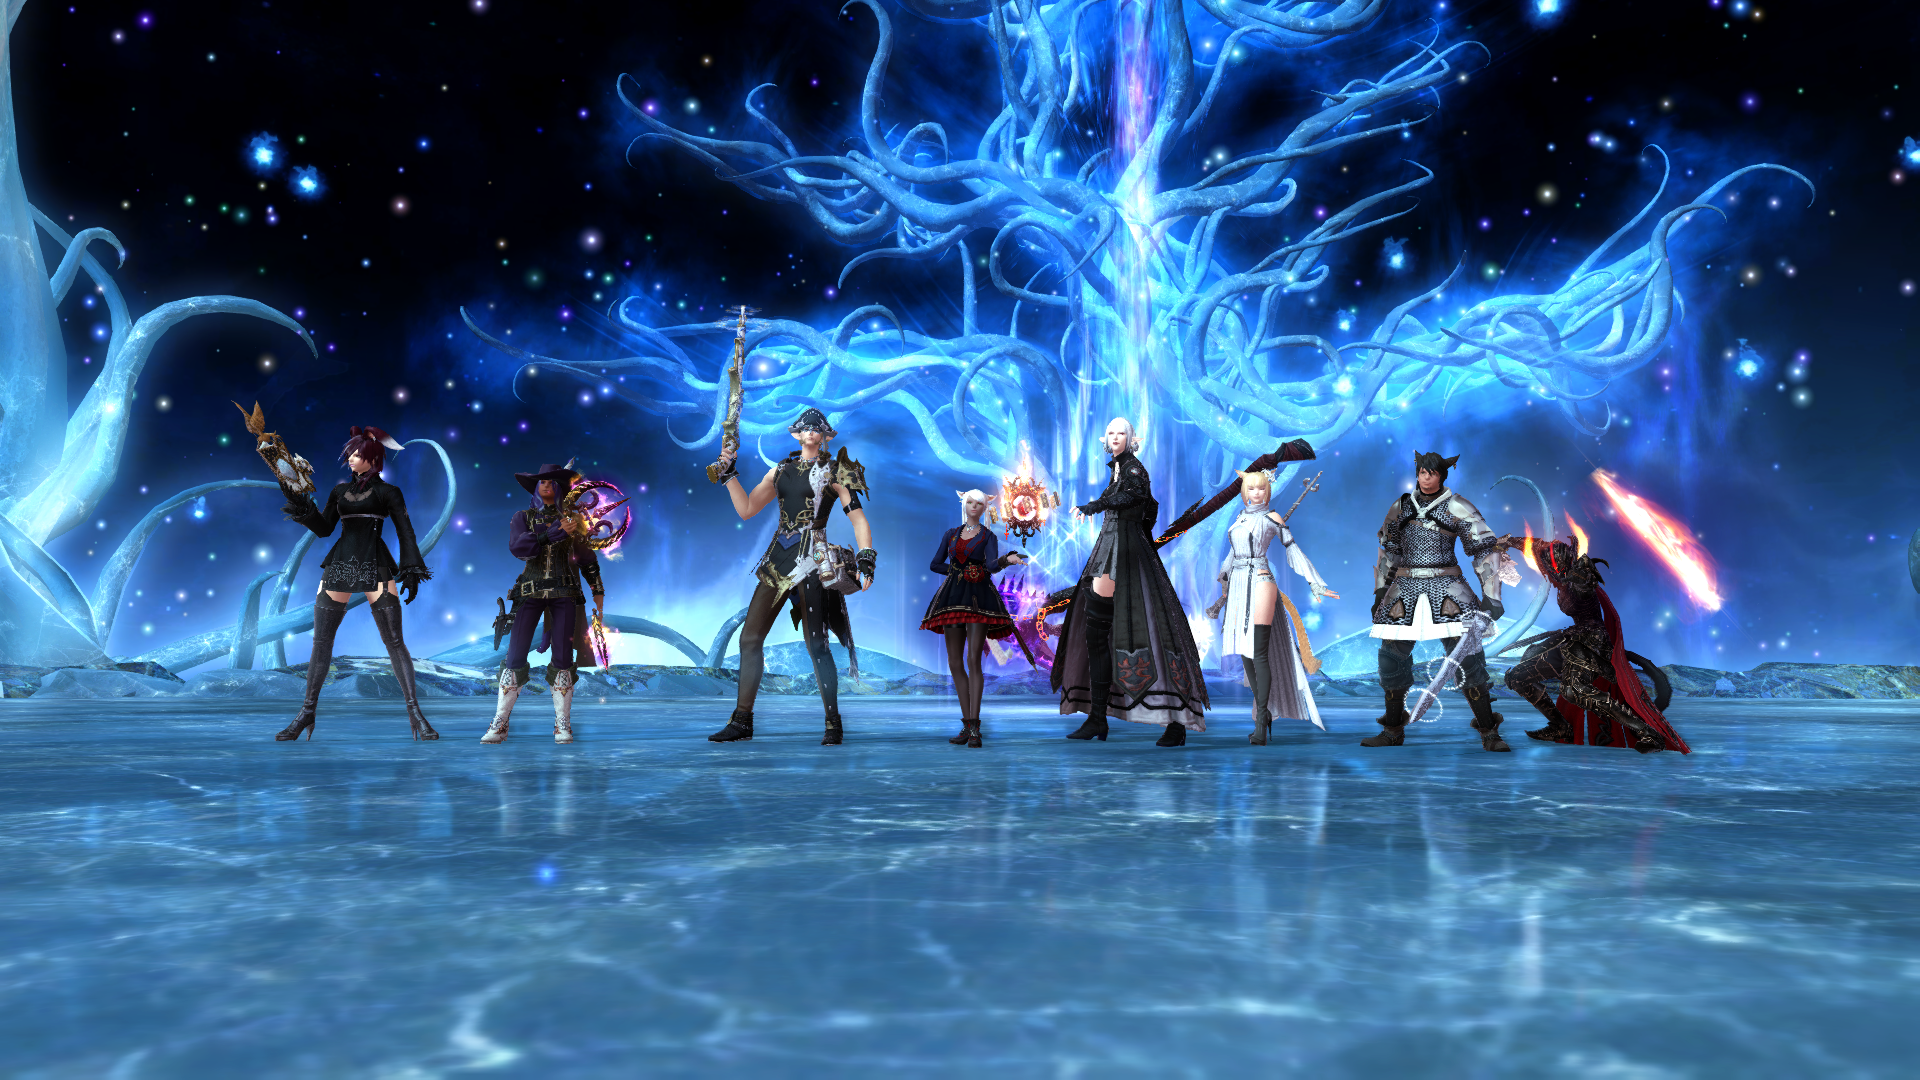
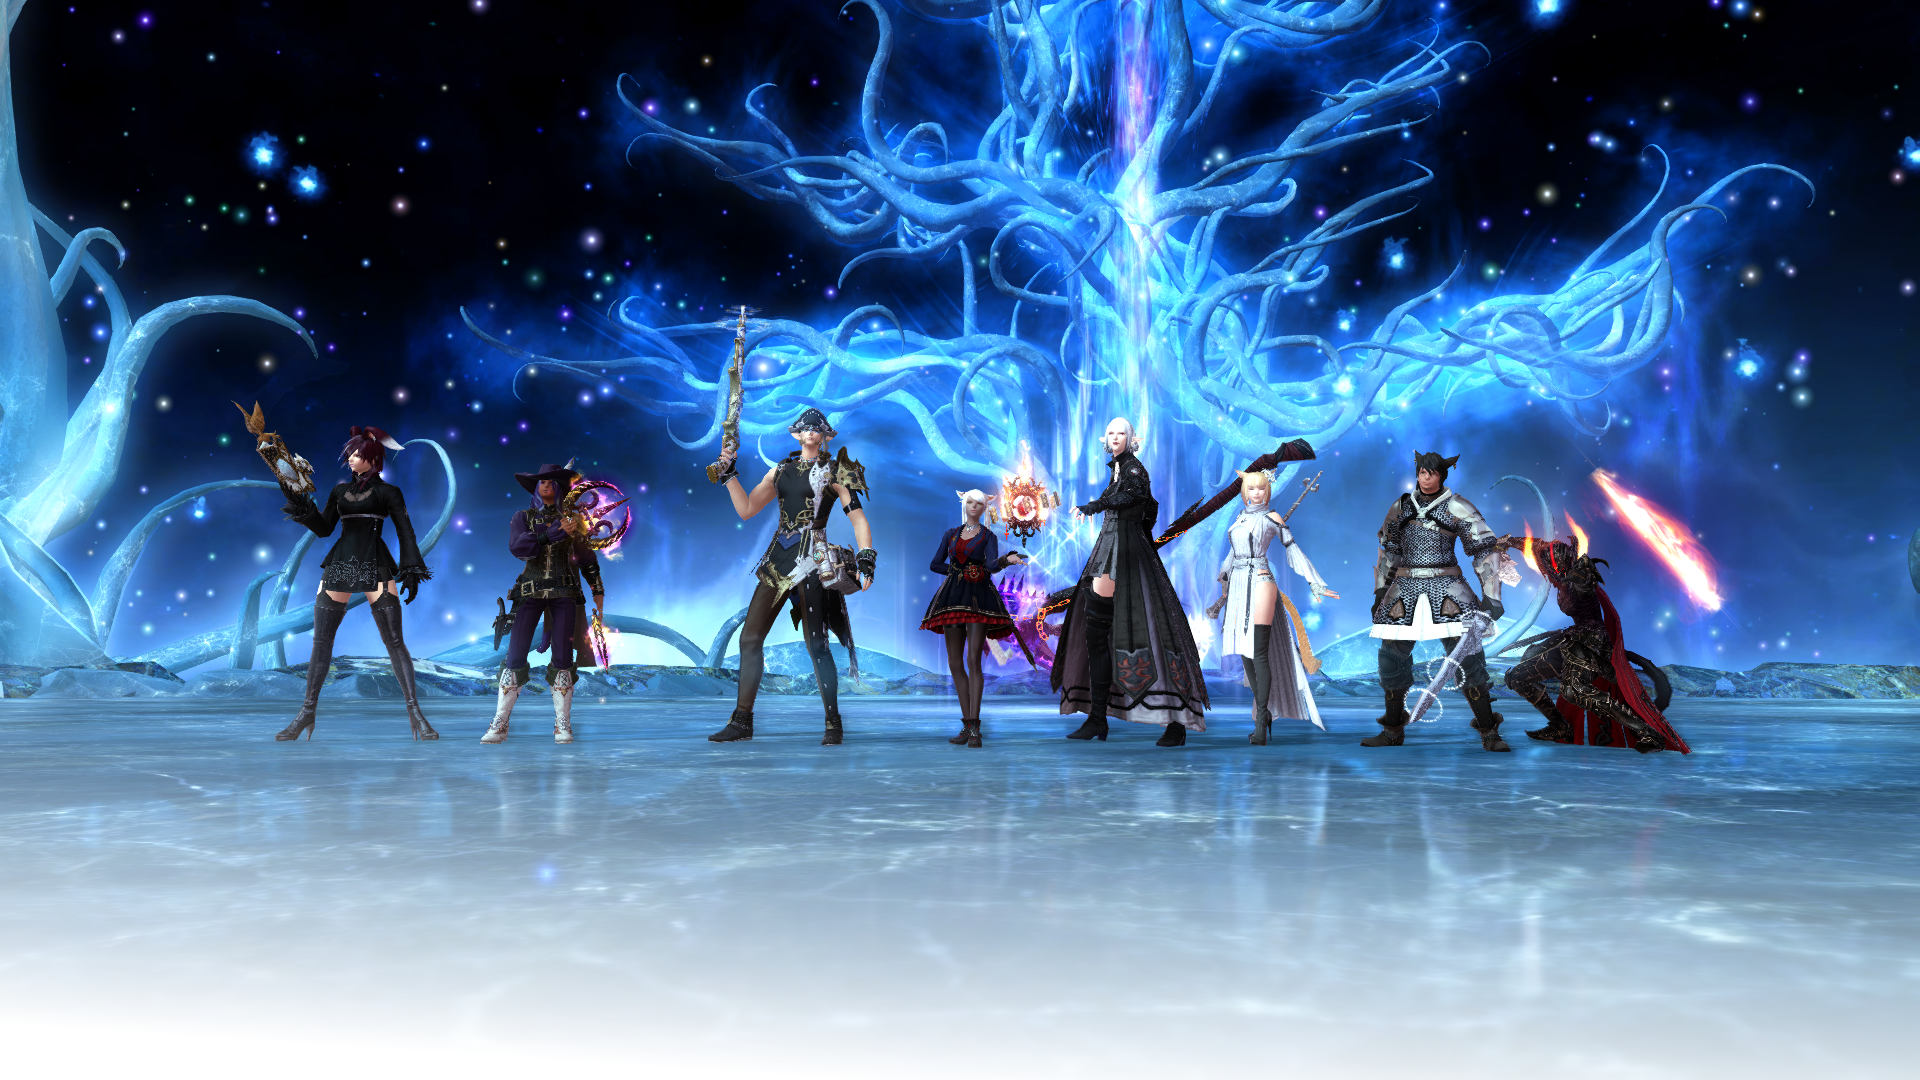
Added compressed images and new home style

Changed region(s): [[0.0, 0.6417, 1.0, 1.0]]

diff --git a/ff-infinitely-awake/src/components/daisyPhotos.js b/ff-infinitely-awake/src/components/daisyPhotos.js
@@ -1,148 +1,148 @@
-import daisy from "@/assets/daisy-pics/daisy-pic.jpg"
-import daisy1 from "@/assets/daisy-pics/daisy-pic_6693.png"
-import daisy2 from "@/assets/daisy-pics/daisy-pic_6745.jpg"
-import daisy3 from "@/assets/daisy-pics/daisy-pic_6893.jpg"
-import daisy4 from "@/assets/daisy-pics/daisy-pic_6911.jpg"
-import daisy5 from "@/assets/daisy-pics/daisy-pic_6917.jpg"
-import daisy6 from "@/assets/daisy-pics/daisy-pic_6936.jpg"
-import daisy7 from "@/assets/daisy-pics/daisy-pic_7387.jpg"
-import daisy8 from "@/assets/daisy-pics/daisy-pic_7496.jpg"
-import daisy9 from "@/assets/daisy-pics/daisy-pic_7756.jpg"
-import daisy10 from "@/assets/daisy-pics/daisy-pic_7776.jpg"
-import daisy11 from "@/assets/daisy-pics/daisy-pic_7786.jpg"
-import daisy12 from "@/assets/daisy-pics/daisy-pic_7804.jpg"
-import daisy13 from "@/assets/daisy-pics/daisy-pic_8524.jpg"
-import daisy14 from "@/assets/daisy-pics/daisy-pic_8539.jpg"
-import daisy15 from "@/assets/daisy-pics/daisy-pic_8557.jpg"
-import daisy16 from "@/assets/daisy-pics/daisy-pic_8559.jpg"
-import daisy17 from "@/assets/daisy-pics/daisy-pic_8560.jpg"
-import daisy19 from "@/assets/daisy-pics/daisy-pic_8567.jpg"
-import daisy20 from "@/assets/daisy-pics/daisy-pic_8578.jpg"
-import daisy21 from "@/assets/daisy-pics/daisy-pic_8580.jpg"
-import daisy22 from "@/assets/daisy-pics/daisy-pic_8581.jpg"
-import daisy23 from "@/assets/daisy-pics/daisy-pic_8606.jpg"
-import daisy24 from "@/assets/daisy-pics/daisy-pic_8786.jpg"
-import daisy25 from "@/assets/daisy-pics/daisy-pic_8821.jpg"
-import daisy26 from "@/assets/daisy-pics/daisy-pic_8913.jpg"
-import daisy27 from "@/assets/daisy-pics/daisy-pic_8915.jpg"
-import daisy28 from "@/assets/daisy-pics/daisy-pic_8957.jpg"
-import daisy29 from "@/assets/daisy-pics/daisy-pic_9028.jpg"
+import daisy from "../assets/daisy-pics/compressjpeg/daisy-pic-min.jpg"
+import daisy1 from "@/assets/daisy-pics/compressjpeg/daisy-pic_6693-min.jpg"
+import daisy2 from "@/assets/daisy-pics/compressjpeg/daisy-pic_6745-min.jpg"
+import daisy3 from "@/assets/daisy-pics/compressjpeg/daisy-pic_6893-min.jpg"
+import daisy4 from "@/assets/daisy-pics/compressjpeg/daisy-pic_6911-min.jpg"
+import daisy5 from "@/assets/daisy-pics/compressjpeg/daisy-pic_6917-min.jpg"
+import daisy6 from "@/assets/daisy-pics/compressjpeg/daisy-pic_6936-min.jpg"
+import daisy7 from "@/assets/daisy-pics/compressjpeg/daisy-pic_7387-min.jpg"
+import daisy8 from "@/assets/daisy-pics/compressjpeg/daisy-pic_7496-min.jpg"
+import daisy9 from "@/assets/daisy-pics/compressjpeg/daisy-pic_7756-min.jpg"
+import daisy10 from "@/assets/daisy-pics/compressjpeg/daisy-pic_7776-min.jpg"
+import daisy11 from "@/assets/daisy-pics/compressjpeg/daisy-pic_7786-min.jpg"
+import daisy12 from "@/assets/daisy-pics/compressjpeg/daisy-pic_7804-min.jpg"
+import daisy13 from "@/assets/daisy-pics/compressjpeg/daisy-pic_8524-min.jpg"
+import daisy14 from "@/assets/daisy-pics/compressjpeg/daisy-pic_8539-min.jpg"
+import daisy15 from "@/assets/daisy-pics/compressjpeg/daisy-pic_8557-min.jpg"
+import daisy16 from "@/assets/daisy-pics/compressjpeg/daisy-pic_8559-min.jpg"
+import daisy17 from "@/assets/daisy-pics/compressjpeg/daisy-pic_8560-min.jpg"
+import daisy19 from "@/assets/daisy-pics/compressjpeg/daisy-pic_8567-min.jpg"
+import daisy20 from "@/assets/daisy-pics/compressjpeg/daisy-pic_8578-min.jpg"
+import daisy21 from "@/assets/daisy-pics/compressjpeg/daisy-pic_8580-min.jpg"
+import daisy22 from "@/assets/daisy-pics/compressjpeg/daisy-pic_8581-min.jpg"
+import daisy23 from "@/assets/daisy-pics/compressjpeg/daisy-pic_8606-min.jpg"
+import daisy24 from "@/assets/daisy-pics/compressjpeg/daisy-pic_8786-min.jpg"
+import daisy25 from "@/assets/daisy-pics/compressjpeg/daisy-pic_8821-min.jpg"
+import daisy26 from "@/assets/daisy-pics/compressjpeg/daisy-pic_8913-min.jpg"
+import daisy27 from "@/assets/daisy-pics/compressjpeg/daisy-pic_8915-min.jpg"
+import daisy28 from "@/assets/daisy-pics/compressjpeg/daisy-pic_8957-min.jpg"
+import daisy29 from "@/assets/daisy-pics/compressjpeg/daisy-pic_9028-min.jpg"
 
 export const daisyPhotos = [
   {
     src: daisy,
-    alt: "Temp photo"
+    alt: "Cute Daisy"
   },
   {
     src: daisy1,
-    alt: "Temp photo"
+    alt: "Cute Daisy"
   },
   {
     src: daisy2,
-    alt: "Temp photo"
+    alt: "Cute Daisy"
   },
   {
     src: daisy3,
-    alt: "Temp photo"
+    alt: "Cute Daisy"
   },
   {
     src: daisy4,
-    alt: "Temp photo"
+    alt: "Cute Daisy"
   },
   {
     src: daisy5,
-    alt: "Temp photo"
+    alt: "Cute Daisy"
   },
   {
     src: daisy6,
-    alt: "Temp photo"
+    alt: "Cute Daisy"
   },
   {
     src: daisy7,
-    alt: "Temp photo"
+    alt: "Cute Daisy"
   },
   {
     src: daisy8,
-    alt: "Temp photo"
+    alt: "Cute Daisy"
   },
   {
     src: daisy9,
-    alt: "Temp photo"
+    alt: "Cute Daisy"
   },
   {
     src: daisy10,
-    alt: "Temp photo"
+    alt: "Cute Daisy"
   },
   {
     src: daisy11,
-    alt: "Temp photo"
+    alt: "Cute Daisy"
   },
   {
     src: daisy12,
-    alt: "Temp photo"
+    alt: "Cute Daisy"
   },
   {
     src: daisy13,
-    alt: "Temp photo"
+    alt: "Cute Daisy"
   },
   {
     src: daisy14,
-    alt: "Temp photo"
+    alt: "Cute Daisy"
   },
   {
     src: daisy15,
-    alt: "Temp photo"
+    alt: "Cute Daisy"
   },
   {
     src: daisy16,
-    alt: "Temp photo"
+    alt: "Cute Daisy"
   },
   {
     src: daisy17,
-    alt: "Temp photo"
+    alt: "Cute Daisy"
   },
   {
     src: daisy19,
-    alt: "Temp photo"
+    alt: "Cute Daisy"
   },
   {
     src: daisy20,
-    alt: "Temp photo"
+    alt: "Cute Daisy"
   },
   {
     src: daisy21,
-    alt: "Temp photo"
+    alt: "Cute Daisy"
   },
   {
     src: daisy22,
-    alt: "Temp photo"
+    alt: "Cute Daisy"
   },
   {
     src: daisy23,
-    alt: "Temp photo"
+    alt: "Cute Daisy"
   },
   {
     src: daisy24,
-    alt: "Temp photo"
+    alt: "Cute Daisy"
   },
   {
     src: daisy25,
-    alt: "Temp photo"
+    alt: "Cute Daisy"
   },
   {
     src: daisy26,
-    alt: "Temp photo"
+    alt: "Cute Daisy"
   },
   {
     src: daisy27,
-    alt: "Temp photo"
+    alt: "Cute Daisy"
   },
   {
     src: daisy28,
-    alt: "Temp photo"
+    alt: "Cute Daisy"
   },
   {
     src: daisy29,
-    alt: "Temp photo"
+    alt: "Cute Daisy"
   }
 ]

diff --git a/ff-infinitely-awake/src/views/HomeView.vue b/ff-infinitely-awake/src/views/HomeView.vue
@@ -1,21 +1,22 @@
 <script>
 import doubleRas from "@/assets/blakexras/ohGO6Uo.png"
+import groupPic from "@/assets/static-p9s-group-pic.png"
 export default {
   data: () => ({
-    photo: doubleRas
+    photo: groupPic
   })
 }
 </script>
 
 <template>
-  <h1>
-    Welcome, Ras!<br />From everyone who participated in this creation, we hope you enjoy, Ras!<br />💗
-  </h1>
-  <img :src="this.photo" alt="Double Ras" />
-  <h2>psst ... check out the other links!</h2>
-  <h4>
-    <em>... maybe this site will get updated with more features down the road. Who knows ...</em>
-  </h4>
+  <h1>Welcome, Ras!<br />From everyone who participated in this creation, we hope you enjoy! 💗</h1>
+  <img :src="this.photo" alt="e" />
+  <div>
+    <h2>psst ... check out the other links!</h2>
+    <h4>
+      <em>... maybe this site will get updated with more features down the road. Who knows ...</em>
+    </h4>
+  </div>
 </template>
 
 <style scoped>
@@ -25,17 +26,17 @@ div {
 }
 
 img {
-  max-width: 30%;
-  align-content: center;
+  width: 100%;
 }
 
 h1 {
   text-align: center;
   font-family: "Libre Baskerville", serif;
   font-weight: 700;
-  font-size: 36pt;
+  font-size: 28pt;
   color: black;
   border-block: 5px solid black;
-  margin-block: 2rem;
+  margin-top: 2rem;
+  margin-bottom: 0.5rem;
 }
 </style>

diff --git a/ff-infinitely-awake/src/views/LettersView.vue b/ff-infinitely-awake/src/views/LettersView.vue
@@ -1,10 +1,10 @@
 <script setup>
 import LetterCard from "../components/LetterCard.vue"
-import { letters } from "../components/letters"
+import { letters } from "@/components/letters"
 </script>
 
 <template>
-  <h1>Letters</h1>
+  <h1>Letters of Appreciation to Ras</h1>
   <div className="letters-page">
     <LetterCard v-for="letter in letters" :key="letter.author" :letter="letter" />
   </div>
